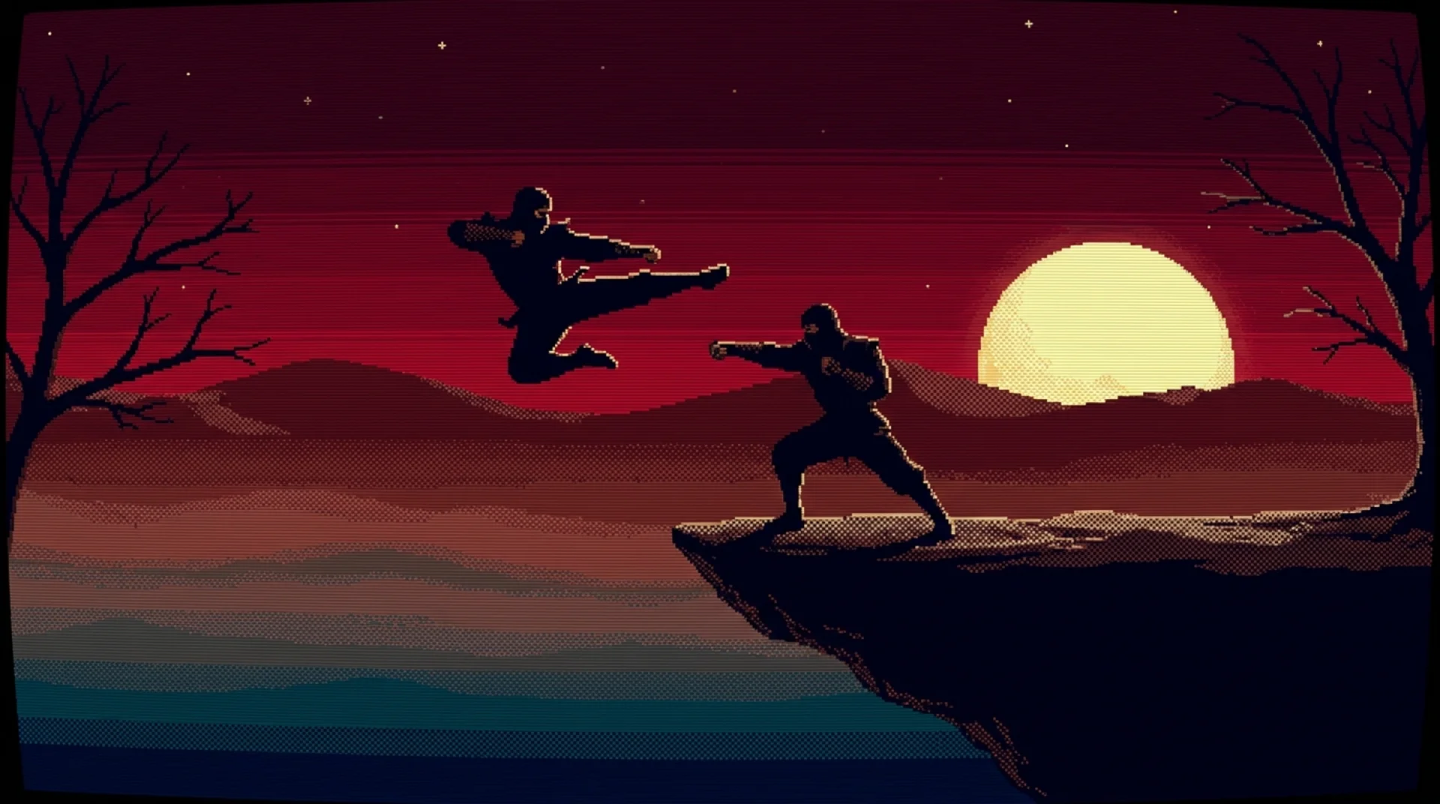
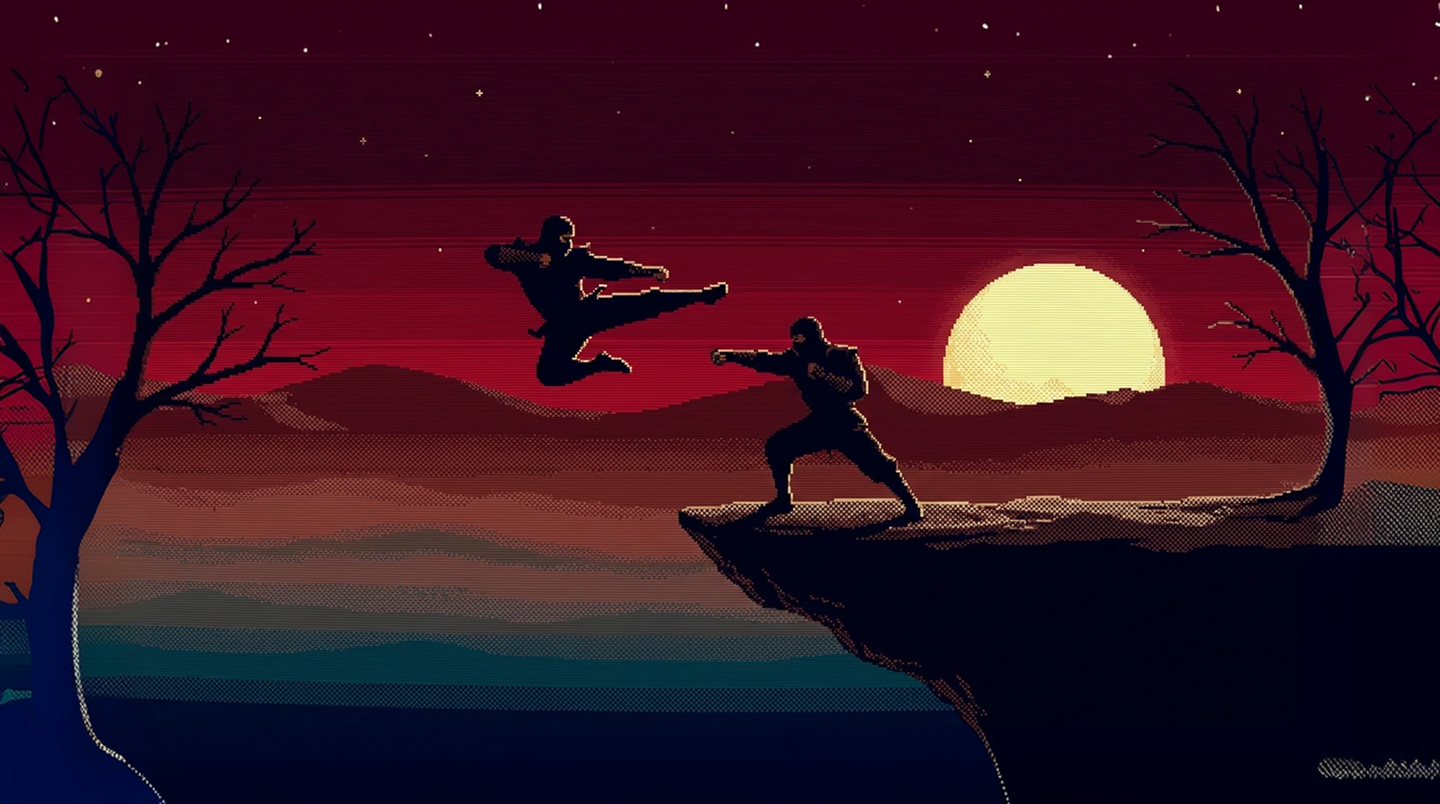
fix(hero): mobile scaling robustness + new hero art + PLAY at SOUND level
Reported on mobile: the hero "doesn't scale". Root cause: HeroStage
evaluated use3D once on mount (empty-deps effect), so when the viewport
crossed below 1024px AFTER load (phone rotation / resize), the fixed
1440px-wide WebGL display canvas stayed mounted and forced ~1065px of
horizontal overflow — the whole page, hero included, stopped fitting.

- HeroStage: re-evaluate use3D on matchMedia('(min-width:1024px)') change,
  so the 3D canvas unmounts the moment we go narrow (and remounts going
  wide). Verified: desktop→mobile resize now keeps document overflow at 0.
- PlayFab: on phones (<=639px) rise to top-right (top:80px), level with
  the SoundToggle (top-left) — the two arcade controls now mirror each
  other and both clear the DemoNav strip + bottom ModeSwitcher.
- Hero art: swap hero-bg to the new pixel fighters-on-a-cliff scene
  (webp 95kB @user; OG png refreshed to match).

diff --git a/src/components/HeroDisplay3D/HeroStage.jsx b/src/components/HeroDisplay3D/HeroStage.jsx
@@ -20,7 +20,6 @@ export default function HeroStage() {
   const [use3D, setUse3D] = useState(false)
 
   useEffect(() => {
-    const desktop = window.matchMedia('(min-width: 1024px)').matches
     const reduced = prefersReducedMotion()
     let webgl = false
     try {
@@ -32,7 +31,17 @@ export default function HeroStage() {
     } catch {
       webgl = false
     }
-    setUse3D(desktop && webgl && !reduced)
+    // Re-evaluate on every viewport crossing of the 1024px line — NOT just on
+    // mount. The 3D DISPLAY is a fixed 1440px-wide canvas; if it stays mounted
+    // when the viewport drops below the breakpoint (phone rotation, resize),
+    // it forces ~1440px of horizontal overflow and the whole page — hero
+    // included — stops fitting. Listening to the media query unmounts it the
+    // moment we go narrow (and remounts it going wide again).
+    const mq = window.matchMedia('(min-width: 1024px)')
+    const evaluate = () => setUse3D(mq.matches && webgl && !reduced)
+    evaluate()
+    mq.addEventListener('change', evaluate)
+    return () => mq.removeEventListener('change', evaluate)
   }, [])
 
   return (

diff --git a/src/components/PlayFab/PlayFab.css b/src/components/PlayFab/PlayFab.css
@@ -61,13 +61,16 @@
   outline-offset: 5px;
 }
 
-/* phones: shrink a touch + clear the bottom-center ModeSwitcher pill by lifting
-   above it (SoundToggle escapes to top-left; this one just rises a little). */
+/* phones: shrink a touch + escape the corner-crowding bottom-center
+   ModeSwitcher pill by rising to the TOP-right — level with SoundToggle
+   (top-left, top:80px), so the two arcade controls mirror each other and
+   both clear the DemoNav strip + the bottom switcher. */
 @media (max-width: 639px) {
   .playfab {
     --u: 2px;
     right: 10px;
-    bottom: 62px;
+    top: 80px;
+    bottom: auto;
     padding: 8px 11px;
     font-size: 13px;
   }